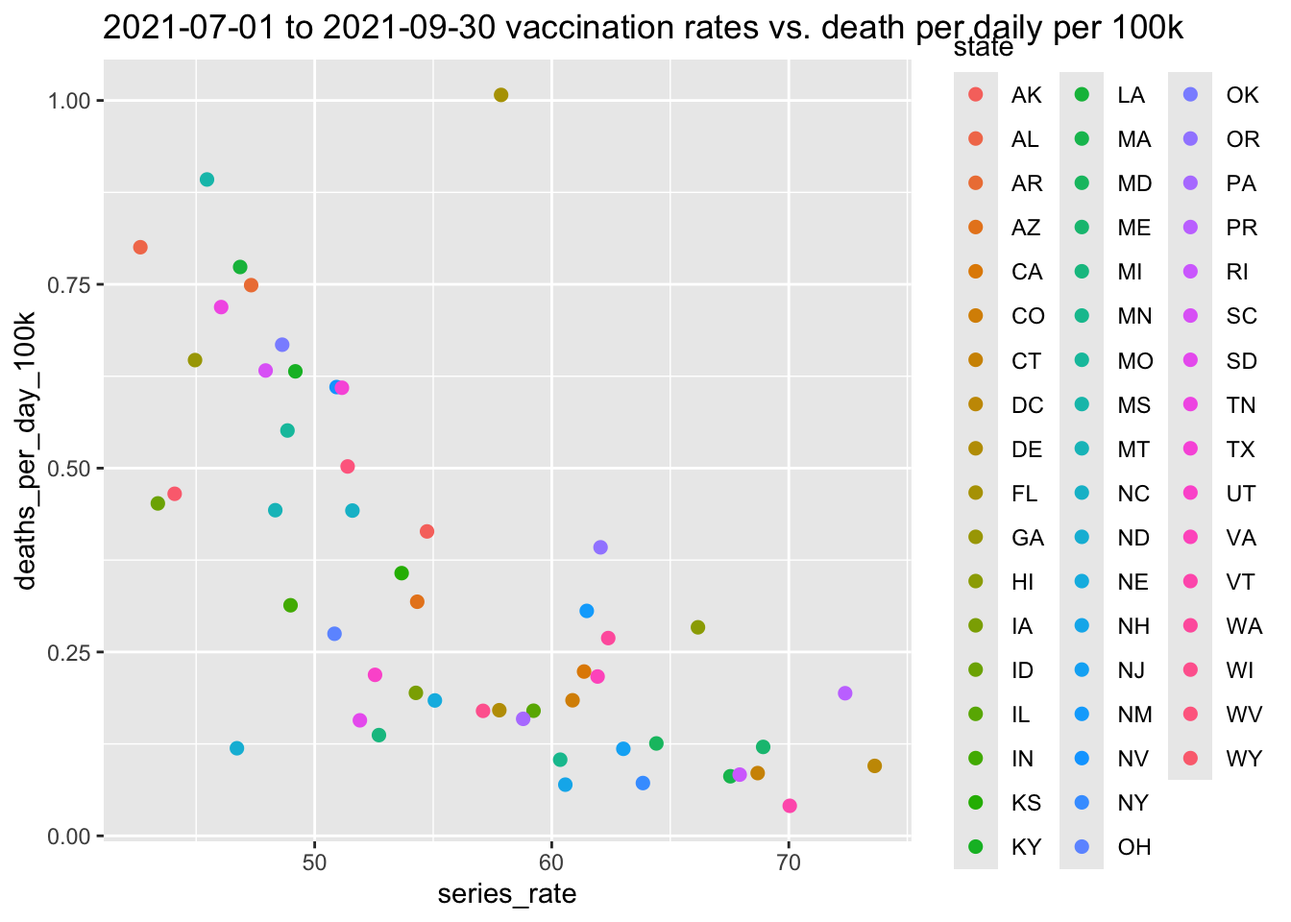
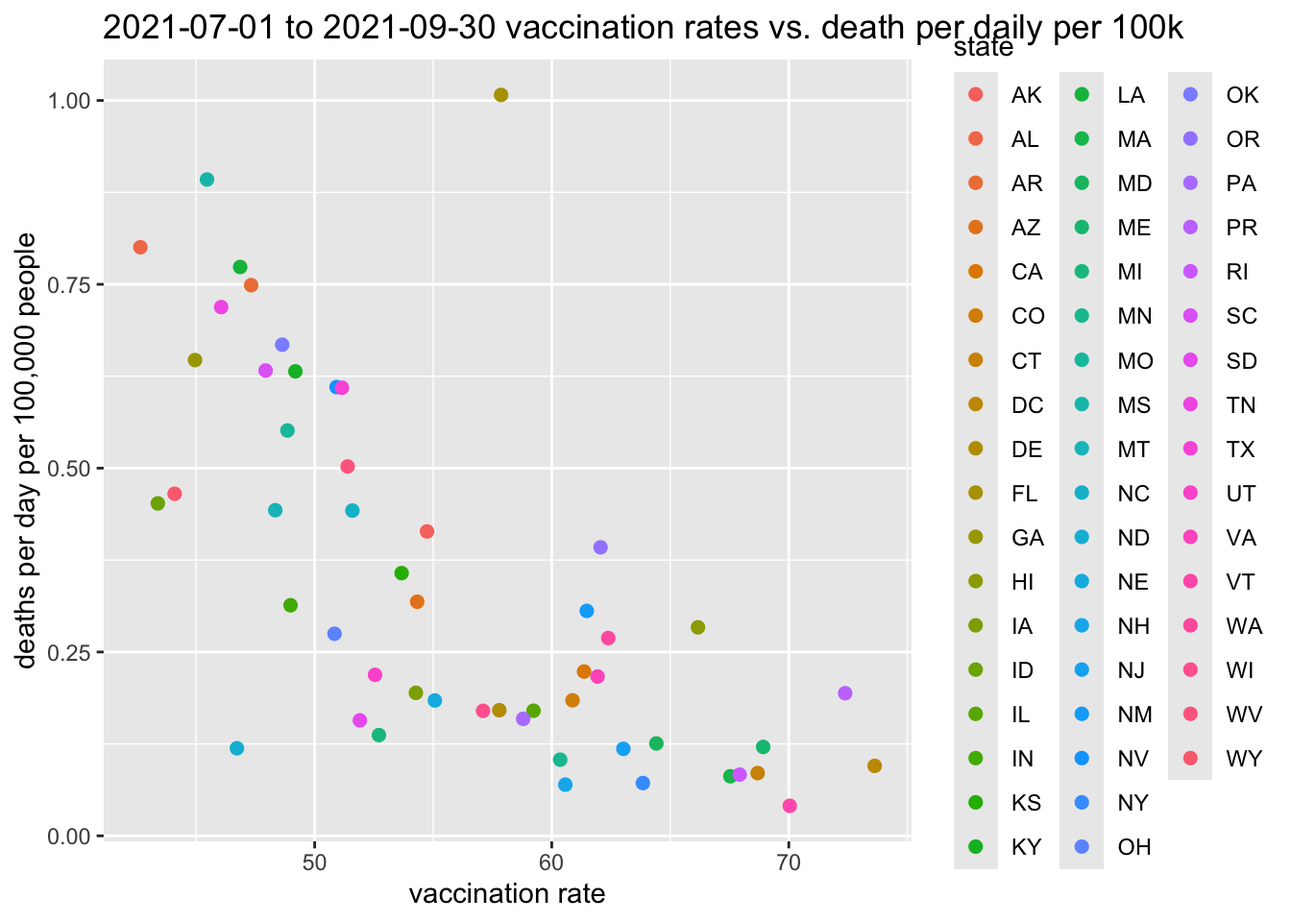
pset4

Changed region(s): [[0.0, 0.25, 0.0312, 0.7188], [0.3125, 0.9375, 0.4688, 1.0]]

diff --git a/p4/pset-04-dataviz.html b/p4/pset-04-dataviz.html
@@ -587,33 +587,13 @@ The following object is masked from 'package:purrr':
 <li>(1 point) Repeat what you did in the previous two exercises for provisional COVID-19 deaths. Display the result and comment appropriately.</li>
 </ol>
 <div class="cell">
-<div class="sourceCode cell-code" id="cb23"><pre class="sourceCode r code-with-copy"><code class="sourceCode r"><span id="cb23-1"><a href="#cb23-1" aria-hidden="true" tabindex="-1"></a><span class="co"># deaths_raw = deaths_raw |&gt; </span></span>
-<span id="cb23-2"><a href="#cb23-2" aria-hidden="true" tabindex="-1"></a><span class="co">#   # filter(state != "United States") |&gt;</span></span>
-<span id="cb23-3"><a href="#cb23-3" aria-hidden="true" tabindex="-1"></a><span class="co">#   select(state, start_date, week = mmwr_week, death = covid_19_deaths) |&gt;  # Keep relevant columns</span></span>
-<span id="cb23-4"><a href="#cb23-4" aria-hidden="true" tabindex="-1"></a><span class="co">#   mutate(</span></span>
-<span id="cb23-5"><a href="#cb23-5" aria-hidden="true" tabindex="-1"></a><span class="co">#     week = epiweek(start_date),   # Standardize to MMWR week</span></span>
-<span id="cb23-6"><a href="#cb23-6" aria-hidden="true" tabindex="-1"></a><span class="co">#     year = epiyear(start_date),   # Standardize to MMWR year</span></span>
-<span id="cb23-7"><a href="#cb23-7" aria-hidden="true" tabindex="-1"></a><span class="co">#     death = as.integer(death)     # Convert deaths to integer</span></span>
-<span id="cb23-8"><a href="#cb23-8" aria-hidden="true" tabindex="-1"></a><span class="co">#     # state = case_when(            </span></span>
-<span id="cb23-9"><a href="#cb23-9" aria-hidden="true" tabindex="-1"></a><span class="co">#     #   state == "District of Columbia" ~ "DC",</span></span>
-<span id="cb23-10"><a href="#cb23-10" aria-hidden="true" tabindex="-1"></a><span class="co">#     #   state == "Puerto Rico" ~ "PR",</span></span>
-<span id="cb23-11"><a href="#cb23-11" aria-hidden="true" tabindex="-1"></a><span class="co">#     #   TRUE ~ state.abb[match(state, state.name)]</span></span>
-<span id="cb23-12"><a href="#cb23-12" aria-hidden="true" tabindex="-1"></a><span class="co">#     # )</span></span>
-<span id="cb23-13"><a href="#cb23-13" aria-hidden="true" tabindex="-1"></a><span class="co">#   ) |&gt; </span></span>
-<span id="cb23-14"><a href="#cb23-14" aria-hidden="true" tabindex="-1"></a><span class="co">#   select(-start_date) |&gt;  # Remove original date column</span></span>
-<span id="cb23-15"><a href="#cb23-15" aria-hidden="true" tabindex="-1"></a><span class="co">#   group_by(state, week, year) |&gt;  # Prepare for aggregation </span></span>
-<span id="cb23-16"><a href="#cb23-16" aria-hidden="true" tabindex="-1"></a><span class="co">#   ungroup()</span></span>
-<span id="cb23-17"><a href="#cb23-17" aria-hidden="true" tabindex="-1"></a><span class="co"># </span></span>
-<span id="cb23-18"><a href="#cb23-18" aria-hidden="true" tabindex="-1"></a><span class="co"># head(deaths_raw)  # Display first few rows</span></span>
-<span id="cb23-19"><a href="#cb23-19" aria-hidden="true" tabindex="-1"></a></span>
-<span id="cb23-20"><a href="#cb23-20" aria-hidden="true" tabindex="-1"></a></span>
-<span id="cb23-21"><a href="#cb23-21" aria-hidden="true" tabindex="-1"></a>deaths_raw <span class="ot">=</span> deaths_raw<span class="sc">|&gt;</span></span>
-<span id="cb23-22"><a href="#cb23-22" aria-hidden="true" tabindex="-1"></a>  <span class="fu">filter</span>(state <span class="sc">%in%</span> population<span class="sc">$</span>state_name)<span class="sc">|&gt;</span></span>
-<span id="cb23-23"><a href="#cb23-23" aria-hidden="true" tabindex="-1"></a>  <span class="fu">mutate</span>(<span class="at">death =</span> <span class="fu">parse_number</span>(covid_19_deaths))<span class="sc">|&gt;</span></span>
-<span id="cb23-24"><a href="#cb23-24" aria-hidden="true" tabindex="-1"></a>  <span class="fu">mutate</span>(<span class="at">date =</span> <span class="fu">as_date</span>(<span class="fu">ymd_hms</span>(end_date)))<span class="sc">|&gt;</span></span>
-<span id="cb23-25"><a href="#cb23-25" aria-hidden="true" tabindex="-1"></a>  <span class="fu">mutate</span>(<span class="at">mmwr_year =</span> <span class="fu">epiyear</span>(date),<span class="at">mmwr_week =</span> <span class="fu">as.numeric</span>(mmwr_week))<span class="sc">|&gt;</span></span>
-<span id="cb23-26"><a href="#cb23-26" aria-hidden="true" tabindex="-1"></a>  <span class="fu">select</span>(state, mmwr_week, mmwr_year, death)<span class="sc">|&gt;</span></span>
-<span id="cb23-27"><a href="#cb23-27" aria-hidden="true" tabindex="-1"></a>  <span class="fu">arrange</span>(state, mmwr_year, mmwr_week)</span></code><button title="Copy to Clipboard" class="code-copy-button"><i class="bi"></i></button></pre></div>
+<div class="sourceCode cell-code" id="cb23"><pre class="sourceCode r code-with-copy"><code class="sourceCode r"><span id="cb23-1"><a href="#cb23-1" aria-hidden="true" tabindex="-1"></a>deaths_raw <span class="ot">=</span> deaths_raw<span class="sc">|&gt;</span></span>
+<span id="cb23-2"><a href="#cb23-2" aria-hidden="true" tabindex="-1"></a>  <span class="fu">filter</span>(state <span class="sc">%in%</span> population<span class="sc">$</span>state_name)<span class="sc">|&gt;</span> <span class="co">#since the state is full name, and also have united state on it, we fix it</span></span>
+<span id="cb23-3"><a href="#cb23-3" aria-hidden="true" tabindex="-1"></a>  <span class="fu">mutate</span>(<span class="at">death =</span> <span class="fu">parse_number</span>(covid_19_deaths))<span class="sc">|&gt;</span> <span class="co">#change the name</span></span>
+<span id="cb23-4"><a href="#cb23-4" aria-hidden="true" tabindex="-1"></a>  <span class="fu">mutate</span>(<span class="at">date =</span> <span class="fu">as_date</span>(<span class="fu">ymd_hms</span>(end_date)))<span class="sc">|&gt;</span> <span class="co">#convert date</span></span>
+<span id="cb23-5"><a href="#cb23-5" aria-hidden="true" tabindex="-1"></a>  <span class="fu">mutate</span>(<span class="at">mmwr_year =</span> <span class="fu">epiyear</span>(date),<span class="at">mmwr_week =</span> <span class="fu">as.numeric</span>(mmwr_week))<span class="sc">|&gt;</span> <span class="co">#convert date and convert mmwr_week to numeric</span></span>
+<span id="cb23-6"><a href="#cb23-6" aria-hidden="true" tabindex="-1"></a>  <span class="fu">select</span>(state, mmwr_week, mmwr_year, death)<span class="sc">|&gt;</span> <span class="co">#select needed variables </span></span>
+<span id="cb23-7"><a href="#cb23-7" aria-hidden="true" tabindex="-1"></a>  <span class="fu">arrange</span>(state, mmwr_year, mmwr_week)</span></code><button title="Copy to Clipboard" class="code-copy-button"><i class="bi"></i></button></pre></div>
 </div>
 <ol start="8" type="1">
 <li>(1 point) Repeat this now for vaccination data. Keep the variables <code>series_complete</code> and <code>booster</code> along with state and date. Display the result and comment appropriately. Hint: only use the rows with <code>date_type == 'Admin'</code> to only include vaccine data based on the day it was administered, rather than reported.</li>
@@ -674,36 +654,12 @@ The following object is masked from 'package:purrr':
 <span id="cb28-8"><a href="#cb28-8" aria-hidden="true" tabindex="-1"></a></span>
 <span id="cb28-9"><a href="#cb28-9" aria-hidden="true" tabindex="-1"></a>dates_and_pop <span class="ot">&lt;-</span> <span class="fu">cross_join</span>(all_dates, <span class="fu">data.frame</span>(<span class="at">state =</span> <span class="fu">unique</span>(population<span class="sc">$</span>state))) <span class="sc">|&gt;</span> <span class="fu">left_join</span>(population, <span class="at">by =</span> <span class="fu">c</span>(<span class="st">"state"</span>, <span class="st">"mmwr_year"</span> <span class="ot">=</span> <span class="st">"year"</span>))</span>
 <span id="cb28-10"><a href="#cb28-10" aria-hidden="true" tabindex="-1"></a></span>
-<span id="cb28-11"><a href="#cb28-11" aria-hidden="true" tabindex="-1"></a><span class="co"># deaths_raw &lt;- deaths_raw |&gt; filter(!is.na(state))# need remove united state those row to match with other states</span></span>
-<span id="cb28-12"><a href="#cb28-12" aria-hidden="true" tabindex="-1"></a></span>
-<span id="cb28-13"><a href="#cb28-13" aria-hidden="true" tabindex="-1"></a><span class="co"># dat &lt;- dates_and_pop %&gt;%</span></span>
-<span id="cb28-14"><a href="#cb28-14" aria-hidden="true" tabindex="-1"></a><span class="co">#   left_join(cases_raw, by = c("state", "mmwr_year","mmwr_week")) |&gt;</span></span>
-<span id="cb28-15"><a href="#cb28-15" aria-hidden="true" tabindex="-1"></a><span class="co">#   left_join(deaths_raw, by = c("state_name","mmwr_year","mmwr_week")) |&gt;</span></span>
-<span id="cb28-16"><a href="#cb28-16" aria-hidden="true" tabindex="-1"></a><span class="co">#   left_join(hosp_raw, by = c("state","mmwr_year","mmwr_week")) |&gt;</span></span>
-<span id="cb28-17"><a href="#cb28-17" aria-hidden="true" tabindex="-1"></a><span class="co">#   left_join(vax_raw, by = c("state","mmwr_year","mmwr_week"))|&gt;</span></span>
-<span id="cb28-18"><a href="#cb28-18" aria-hidden="true" tabindex="-1"></a><span class="co">#   arrange(state, date)</span></span>
-<span id="cb28-19"><a href="#cb28-19" aria-hidden="true" tabindex="-1"></a></span>
-<span id="cb28-20"><a href="#cb28-20" aria-hidden="true" tabindex="-1"></a></span>
-<span id="cb28-21"><a href="#cb28-21" aria-hidden="true" tabindex="-1"></a><span class="co"># </span></span>
-<span id="cb28-22"><a href="#cb28-22" aria-hidden="true" tabindex="-1"></a><span class="co"># deaths_cleaned &lt;- deaths_raw |&gt; #we find that death have duplicated data</span></span>
-<span id="cb28-23"><a href="#cb28-23" aria-hidden="true" tabindex="-1"></a><span class="co">#   group_by(state, year, week) |&gt; </span></span>
-<span id="cb28-24"><a href="#cb28-24" aria-hidden="true" tabindex="-1"></a><span class="co">#   summarise(death = sum(death))</span></span>
-<span id="cb28-25"><a href="#cb28-25" aria-hidden="true" tabindex="-1"></a><span class="co"># </span></span>
-<span id="cb28-26"><a href="#cb28-26" aria-hidden="true" tabindex="-1"></a><span class="co"># </span></span>
-<span id="cb28-27"><a href="#cb28-27" aria-hidden="true" tabindex="-1"></a><span class="co"># dat &lt;- dates_and_pop|&gt;</span></span>
-<span id="cb28-28"><a href="#cb28-28" aria-hidden="true" tabindex="-1"></a><span class="co">#   left_join(cases_raw, by = c("state", "mmwr_year" = "year","mmwr_week" = "week")) |&gt;</span></span>
-<span id="cb28-29"><a href="#cb28-29" aria-hidden="true" tabindex="-1"></a><span class="co">#   left_join(hosp_raw, by = c("state","mmwr_year" = "year","mmwr_week" = "week")) |&gt;</span></span>
-<span id="cb28-30"><a href="#cb28-30" aria-hidden="true" tabindex="-1"></a><span class="co">#   left_join(deaths_cleaned, by = c("state_name" = "state","mmwr_year" = "year","mmwr_week" = "week")) |&gt;</span></span>
-<span id="cb28-31"><a href="#cb28-31" aria-hidden="true" tabindex="-1"></a><span class="co">#   left_join(vax_raw, by = c("state","mmwr_year" = "year","mmwr_week" = "week"))|&gt;</span></span>
-<span id="cb28-32"><a href="#cb28-32" aria-hidden="true" tabindex="-1"></a><span class="co">#   arrange(state, date)</span></span>
-<span id="cb28-33"><a href="#cb28-33" aria-hidden="true" tabindex="-1"></a></span>
-<span id="cb28-34"><a href="#cb28-34" aria-hidden="true" tabindex="-1"></a></span>
-<span id="cb28-35"><a href="#cb28-35" aria-hidden="true" tabindex="-1"></a>dat <span class="ot">=</span> dates_and_pop<span class="sc">|&gt;</span></span>
-<span id="cb28-36"><a href="#cb28-36" aria-hidden="true" tabindex="-1"></a>  <span class="fu">left_join</span>(cases_raw, <span class="at">by =</span> <span class="fu">c</span>(<span class="st">"state"</span>, <span class="st">"mmwr_week"</span> <span class="ot">=</span> <span class="st">"week"</span>,<span class="st">"mmwr_year"</span> <span class="ot">=</span> <span class="st">"year"</span>))<span class="sc">|&gt;</span></span>
-<span id="cb28-37"><a href="#cb28-37" aria-hidden="true" tabindex="-1"></a>  <span class="fu">left_join</span>(hosp_raw, <span class="at">by =</span> <span class="fu">c</span>(<span class="st">"state"</span>, <span class="st">"mmwr_year"</span> <span class="ot">=</span> <span class="st">"year"</span>,<span class="st">"mmwr_week"</span> <span class="ot">=</span> <span class="st">"week"</span>))<span class="sc">|&gt;</span></span>
-<span id="cb28-38"><a href="#cb28-38" aria-hidden="true" tabindex="-1"></a>  <span class="fu">left_join</span>(deaths_raw, <span class="at">by =</span> <span class="fu">c</span>(<span class="st">"state_name"</span> <span class="ot">=</span> <span class="st">"state"</span>, <span class="st">"mmwr_year"</span>,<span class="st">"mmwr_week"</span>))<span class="sc">|&gt;</span></span>
-<span id="cb28-39"><a href="#cb28-39" aria-hidden="true" tabindex="-1"></a>  <span class="fu">left_join</span>(vax_raw, <span class="at">by =</span> <span class="fu">c</span>(<span class="st">"state"</span>, <span class="st">"mmwr_year"</span> <span class="ot">=</span> <span class="st">"year"</span>,<span class="st">"mmwr_week"</span> <span class="ot">=</span> <span class="st">"week"</span>))<span class="sc">|&gt;</span></span>
-<span id="cb28-40"><a href="#cb28-40" aria-hidden="true" tabindex="-1"></a>  <span class="fu">arrange</span>(date, state)</span></code><button title="Copy to Clipboard" class="code-copy-button"><i class="bi"></i></button></pre></div>
+<span id="cb28-11"><a href="#cb28-11" aria-hidden="true" tabindex="-1"></a>dat <span class="ot">=</span> dates_and_pop<span class="sc">|&gt;</span></span>
+<span id="cb28-12"><a href="#cb28-12" aria-hidden="true" tabindex="-1"></a>  <span class="fu">left_join</span>(cases_raw, <span class="at">by =</span> <span class="fu">c</span>(<span class="st">"state"</span>, <span class="st">"mmwr_week"</span> <span class="ot">=</span> <span class="st">"week"</span>,<span class="st">"mmwr_year"</span> <span class="ot">=</span> <span class="st">"year"</span>))<span class="sc">|&gt;</span></span>
+<span id="cb28-13"><a href="#cb28-13" aria-hidden="true" tabindex="-1"></a>  <span class="fu">left_join</span>(hosp_raw, <span class="at">by =</span> <span class="fu">c</span>(<span class="st">"state"</span>, <span class="st">"mmwr_year"</span> <span class="ot">=</span> <span class="st">"year"</span>,<span class="st">"mmwr_week"</span> <span class="ot">=</span> <span class="st">"week"</span>))<span class="sc">|&gt;</span></span>
+<span id="cb28-14"><a href="#cb28-14" aria-hidden="true" tabindex="-1"></a>  <span class="fu">left_join</span>(deaths_raw, <span class="at">by =</span> <span class="fu">c</span>(<span class="st">"state_name"</span> <span class="ot">=</span> <span class="st">"state"</span>, <span class="st">"mmwr_year"</span>,<span class="st">"mmwr_week"</span>))<span class="sc">|&gt;</span></span>
+<span id="cb28-15"><a href="#cb28-15" aria-hidden="true" tabindex="-1"></a>  <span class="fu">left_join</span>(vax_raw, <span class="at">by =</span> <span class="fu">c</span>(<span class="st">"state"</span>, <span class="st">"mmwr_year"</span> <span class="ot">=</span> <span class="st">"year"</span>,<span class="st">"mmwr_week"</span> <span class="ot">=</span> <span class="st">"week"</span>))<span class="sc">|&gt;</span></span>
+<span id="cb28-16"><a href="#cb28-16" aria-hidden="true" tabindex="-1"></a>  <span class="fu">arrange</span>(date, state)</span></code><button title="Copy to Clipboard" class="code-copy-button"><i class="bi"></i></button></pre></div>
 </div>
 <p>Now join all the tables to create your final table. Make sure it is ordered by date within each state. Call it <code>dat</code>. Show a few rows here.</p>
 </section>
@@ -715,57 +671,25 @@ The following object is masked from 'package:purrr':
 <li>(1 point) Plot a trend plot for cases, hospitalizations and deaths for each state. Color by region. Plot rates per <span class="math inline">\(100,000\)</span> people. Place the plots on top of each other. Hint: Use <code>pivot_longer</code> and <code>facet_wrap</code>.</li>
 </ol>
 <div class="cell">
-<div class="sourceCode cell-code" id="cb29"><pre class="sourceCode r code-with-copy"><code class="sourceCode r"><span id="cb29-1"><a href="#cb29-1" aria-hidden="true" tabindex="-1"></a><span class="co"># dat_long &lt;- dat %&gt;%</span></span>
-<span id="cb29-2"><a href="#cb29-2" aria-hidden="true" tabindex="-1"></a><span class="co">#   mutate(</span></span>
-<span id="cb29-3"><a href="#cb29-3" aria-hidden="true" tabindex="-1"></a><span class="co">#     cases_per_100k = (as.integer(cases) / population) * 100000,</span></span>
-<span id="cb29-4"><a href="#cb29-4" aria-hidden="true" tabindex="-1"></a><span class="co">#     hosp_per_100k = (as.integer(hosp) / population) * 100000,</span></span>
-<span id="cb29-5"><a href="#cb29-5" aria-hidden="true" tabindex="-1"></a><span class="co">#     deaths_per_100k = (as.integer(death) / population) * 100000</span></span>
-<span id="cb29-6"><a href="#cb29-6" aria-hidden="true" tabindex="-1"></a><span class="co">#   ) |&gt;</span></span>
-<span id="cb29-7"><a href="#cb29-7" aria-hidden="true" tabindex="-1"></a><span class="co">#   select(date,</span></span>
-<span id="cb29-8"><a href="#cb29-8" aria-hidden="true" tabindex="-1"></a><span class="co">#          state,</span></span>
-<span id="cb29-9"><a href="#cb29-9" aria-hidden="true" tabindex="-1"></a><span class="co">#          region_name,</span></span>
-<span id="cb29-10"><a href="#cb29-10" aria-hidden="true" tabindex="-1"></a><span class="co">#          cases_per_100k,</span></span>
-<span id="cb29-11"><a href="#cb29-11" aria-hidden="true" tabindex="-1"></a><span class="co">#          hosp_per_100k,</span></span>
-<span id="cb29-12"><a href="#cb29-12" aria-hidden="true" tabindex="-1"></a><span class="co">#          deaths_per_100k) |&gt;</span></span>
-<span id="cb29-13"><a href="#cb29-13" aria-hidden="true" tabindex="-1"></a><span class="co">#   pivot_longer(</span></span>
-<span id="cb29-14"><a href="#cb29-14" aria-hidden="true" tabindex="-1"></a><span class="co">#     cols = c(cases_per_100k, hosp_per_100k, deaths_per_100k),</span></span>
-<span id="cb29-15"><a href="#cb29-15" aria-hidden="true" tabindex="-1"></a><span class="co">#     names_to = "metric",</span></span>
-<span id="cb29-16"><a href="#cb29-16" aria-hidden="true" tabindex="-1"></a><span class="co">#     values_to = "rate"</span></span>
-<span id="cb29-17"><a href="#cb29-17" aria-hidden="true" tabindex="-1"></a><span class="co">#   )</span></span>
-<span id="cb29-18"><a href="#cb29-18" aria-hidden="true" tabindex="-1"></a><span class="co"># </span></span>
-<span id="cb29-19"><a href="#cb29-19" aria-hidden="true" tabindex="-1"></a><span class="co"># ggplot(dat_long, aes(</span></span>
-<span id="cb29-20"><a href="#cb29-20" aria-hidden="true" tabindex="-1"></a><span class="co">#   x = date,</span></span>
-<span id="cb29-21"><a href="#cb29-21" aria-hidden="true" tabindex="-1"></a><span class="co">#   y = rate,</span></span>
-<span id="cb29-22"><a href="#cb29-22" aria-hidden="true" tabindex="-1"></a><span class="co">#   color = region_name,</span></span>
-<span id="cb29-23"><a href="#cb29-23" aria-hidden="true" tabindex="-1"></a><span class="co">#   group = state</span></span>
-<span id="cb29-24"><a href="#cb29-24" aria-hidden="true" tabindex="-1"></a><span class="co"># )) +</span></span>
-<span id="cb29-25"><a href="#cb29-25" aria-hidden="true" tabindex="-1"></a><span class="co">#   geom_line(alpha = 0.5) +</span></span>
-<span id="cb29-26"><a href="#cb29-26" aria-hidden="true" tabindex="-1"></a><span class="co">#   facet_wrap( ~ metric, scale = "free_y", ncol = 1) +</span></span>
-<span id="cb29-27"><a href="#cb29-27" aria-hidden="true" tabindex="-1"></a><span class="co">#   labs(title = "COVID-19 Cases, Hospitalizations, and Deaths per 100,000 People", x = "Date", y = "Rate per 100,000") +</span></span>
-<span id="cb29-28"><a href="#cb29-28" aria-hidden="true" tabindex="-1"></a><span class="co">#   theme_minimal() +</span></span>
-<span id="cb29-29"><a href="#cb29-29" aria-hidden="true" tabindex="-1"></a><span class="co">#   theme(legend.position = "bottom",</span></span>
-<span id="cb29-30"><a href="#cb29-30" aria-hidden="true" tabindex="-1"></a><span class="co">#         axis.text.x = element_text(angle = 45, hjust = 1))</span></span>
-<span id="cb29-31"><a href="#cb29-31" aria-hidden="true" tabindex="-1"></a></span>
-<span id="cb29-32"><a href="#cb29-32" aria-hidden="true" tabindex="-1"></a></span>
-<span id="cb29-33"><a href="#cb29-33" aria-hidden="true" tabindex="-1"></a>dat1 <span class="ot">=</span> dat <span class="sc">|&gt;</span></span>
-<span id="cb29-34"><a href="#cb29-34" aria-hidden="true" tabindex="-1"></a>  <span class="fu">mutate</span>(</span>
-<span id="cb29-35"><a href="#cb29-35" aria-hidden="true" tabindex="-1"></a>    <span class="at">cases_rate =</span> (cases <span class="sc">/</span> population) <span class="sc">*</span> <span class="dv">100000</span>,</span>
-<span id="cb29-36"><a href="#cb29-36" aria-hidden="true" tabindex="-1"></a>    <span class="at">hosp_rate =</span> (hosp <span class="sc">/</span> population) <span class="sc">*</span> <span class="dv">100000</span>,</span>
-<span id="cb29-37"><a href="#cb29-37" aria-hidden="true" tabindex="-1"></a>    <span class="at">deaths_rate =</span> (death <span class="sc">/</span> population) <span class="sc">*</span> <span class="dv">100000</span></span>
-<span id="cb29-38"><a href="#cb29-38" aria-hidden="true" tabindex="-1"></a>  ) <span class="sc">|&gt;</span></span>
-<span id="cb29-39"><a href="#cb29-39" aria-hidden="true" tabindex="-1"></a>  <span class="fu">pivot_longer</span>(</span>
-<span id="cb29-40"><a href="#cb29-40" aria-hidden="true" tabindex="-1"></a>    <span class="at">cols =</span> <span class="fu">c</span>(cases_rate, hosp_rate, deaths_rate),</span>
-<span id="cb29-41"><a href="#cb29-41" aria-hidden="true" tabindex="-1"></a>    <span class="at">names_to =</span> <span class="st">"name"</span>,</span>
-<span id="cb29-42"><a href="#cb29-42" aria-hidden="true" tabindex="-1"></a>    <span class="at">values_to =</span> <span class="st">"rate"</span></span>
-<span id="cb29-43"><a href="#cb29-43" aria-hidden="true" tabindex="-1"></a>  )</span>
-<span id="cb29-44"><a href="#cb29-44" aria-hidden="true" tabindex="-1"></a></span>
-<span id="cb29-45"><a href="#cb29-45" aria-hidden="true" tabindex="-1"></a><span class="fu">ggplot</span>(dat1,<span class="fu">aes</span>(</span>
-<span id="cb29-46"><a href="#cb29-46" aria-hidden="true" tabindex="-1"></a>  <span class="at">x =</span> date,</span>
-<span id="cb29-47"><a href="#cb29-47" aria-hidden="true" tabindex="-1"></a>  <span class="at">y =</span> rate,</span>
-<span id="cb29-48"><a href="#cb29-48" aria-hidden="true" tabindex="-1"></a>  <span class="at">group =</span> state,</span>
-<span id="cb29-49"><a href="#cb29-49" aria-hidden="true" tabindex="-1"></a>  <span class="at">color =</span> <span class="fu">factor</span>(region)</span>
-<span id="cb29-50"><a href="#cb29-50" aria-hidden="true" tabindex="-1"></a>)) <span class="sc">+</span></span>
-<span id="cb29-51"><a href="#cb29-51" aria-hidden="true" tabindex="-1"></a>  <span class="fu">geom_line</span>(<span class="at">show.legend =</span> <span class="cn">TRUE</span>) <span class="sc">+</span> <span class="fu">facet_wrap</span>( <span class="sc">~</span> name, <span class="at">scales =</span> <span class="st">"free_y"</span>, <span class="at">ncol =</span> <span class="dv">1</span>)</span></code><button title="Copy to Clipboard" class="code-copy-button"><i class="bi"></i></button></pre></div>
+<div class="sourceCode cell-code" id="cb29"><pre class="sourceCode r code-with-copy"><code class="sourceCode r"><span id="cb29-1"><a href="#cb29-1" aria-hidden="true" tabindex="-1"></a>dat1 <span class="ot">=</span> dat <span class="sc">|&gt;</span></span>
+<span id="cb29-2"><a href="#cb29-2" aria-hidden="true" tabindex="-1"></a>  <span class="fu">mutate</span>(</span>
+<span id="cb29-3"><a href="#cb29-3" aria-hidden="true" tabindex="-1"></a>    <span class="at">cases_rate =</span> (cases <span class="sc">/</span> population) <span class="sc">*</span> <span class="dv">100000</span>,</span>
+<span id="cb29-4"><a href="#cb29-4" aria-hidden="true" tabindex="-1"></a>    <span class="at">hosp_rate =</span> (hosp <span class="sc">/</span> population) <span class="sc">*</span> <span class="dv">100000</span>,</span>
+<span id="cb29-5"><a href="#cb29-5" aria-hidden="true" tabindex="-1"></a>    <span class="at">deaths_rate =</span> (death <span class="sc">/</span> population) <span class="sc">*</span> <span class="dv">100000</span></span>
+<span id="cb29-6"><a href="#cb29-6" aria-hidden="true" tabindex="-1"></a>  ) <span class="sc">|&gt;</span></span>
+<span id="cb29-7"><a href="#cb29-7" aria-hidden="true" tabindex="-1"></a>  <span class="fu">pivot_longer</span>(</span>
+<span id="cb29-8"><a href="#cb29-8" aria-hidden="true" tabindex="-1"></a>    <span class="at">cols =</span> <span class="fu">c</span>(cases_rate, hosp_rate, deaths_rate),</span>
+<span id="cb29-9"><a href="#cb29-9" aria-hidden="true" tabindex="-1"></a>    <span class="at">names_to =</span> <span class="st">"name"</span>,</span>
+<span id="cb29-10"><a href="#cb29-10" aria-hidden="true" tabindex="-1"></a>    <span class="at">values_to =</span> <span class="st">"rate"</span></span>
+<span id="cb29-11"><a href="#cb29-11" aria-hidden="true" tabindex="-1"></a>  )</span>
+<span id="cb29-12"><a href="#cb29-12" aria-hidden="true" tabindex="-1"></a></span>
+<span id="cb29-13"><a href="#cb29-13" aria-hidden="true" tabindex="-1"></a><span class="fu">ggplot</span>(dat1,<span class="fu">aes</span>(</span>
+<span id="cb29-14"><a href="#cb29-14" aria-hidden="true" tabindex="-1"></a>  <span class="at">x =</span> date,</span>
+<span id="cb29-15"><a href="#cb29-15" aria-hidden="true" tabindex="-1"></a>  <span class="at">y =</span> rate,</span>
+<span id="cb29-16"><a href="#cb29-16" aria-hidden="true" tabindex="-1"></a>  <span class="at">group =</span> state,</span>
+<span id="cb29-17"><a href="#cb29-17" aria-hidden="true" tabindex="-1"></a>  <span class="at">color =</span> <span class="fu">factor</span>(region)</span>
+<span id="cb29-18"><a href="#cb29-18" aria-hidden="true" tabindex="-1"></a>)) <span class="sc">+</span></span>
+<span id="cb29-19"><a href="#cb29-19" aria-hidden="true" tabindex="-1"></a>  <span class="fu">geom_line</span>(<span class="at">show.legend =</span> <span class="cn">TRUE</span>) <span class="sc">+</span> <span class="fu">facet_wrap</span>( <span class="sc">~</span> name, <span class="at">scales =</span> <span class="st">"free_y"</span>, <span class="at">ncol =</span> <span class="dv">1</span>)</span></code><button title="Copy to Clipboard" class="code-copy-button"><i class="bi"></i></button></pre></div>
 <div class="cell-output-display">
 <div>
 <figure class="figure">
@@ -829,7 +753,7 @@ The following object is masked from 'package:purrr':
 <span id="cb31-2"><a href="#cb31-2" aria-hidden="true" tabindex="-1"></a>  <span class="fu">filter</span>(mmwr_year <span class="sc">==</span> <span class="dv">2021</span>, mmwr_week <span class="sc">==</span> <span class="fu">epiweek</span>(<span class="fu">as.Date</span>(<span class="st">"2021-07-01"</span>))) <span class="sc">|&gt;</span></span>
 <span id="cb31-3"><a href="#cb31-3" aria-hidden="true" tabindex="-1"></a>  <span class="fu">mutate</span>(<span class="at">percent_vacc =</span> (series<span class="sc">/</span>population)<span class="sc">*</span><span class="dv">100</span>)</span>
 <span id="cb31-4"><a href="#cb31-4" aria-hidden="true" tabindex="-1"></a></span>
-<span id="cb31-5"><a href="#cb31-5" aria-hidden="true" tabindex="-1"></a><span class="fu">ggplot</span>(vax_july, <span class="fu">aes</span>(<span class="at">x =</span> state, percent_vacc, <span class="at">y =</span> percent_vacc, <span class="at">fill =</span> state)) <span class="sc">+</span></span>
+<span id="cb31-5"><a href="#cb31-5" aria-hidden="true" tabindex="-1"></a><span class="fu">ggplot</span>(vax_july, <span class="fu">aes</span>(<span class="at">x =</span> state,  <span class="at">y =</span> percent_vacc, <span class="at">fill =</span> state)) <span class="sc">+</span></span>
 <span id="cb31-6"><a href="#cb31-6" aria-hidden="true" tabindex="-1"></a>  <span class="fu">geom_bar</span>(<span class="at">stat =</span> <span class="st">"identity"</span>) <span class="sc">+</span></span>
 <span id="cb31-7"><a href="#cb31-7" aria-hidden="true" tabindex="-1"></a>  <span class="fu">labs</span>(<span class="at">title =</span> <span class="st">"distribution of vaccination rates across states on July 1, 2021"</span>, <span class="at">x =</span> <span class="st">"state"</span>, <span class="at">y =</span> <span class="st">"Percent Vaccinated"</span>) <span class="sc">+</span></span>
 <span id="cb31-8"><a href="#cb31-8" aria-hidden="true" tabindex="-1"></a>  <span class="fu">theme_minimal</span>()</span></code><button title="Copy to Clipboard" class="code-copy-button"><i class="bi"></i></button></pre></div>
@@ -903,7 +827,7 @@ The following object is masked from 'package:purrr':
 <span id="cb33-15"><a href="#cb33-15" aria-hidden="true" tabindex="-1"></a><span class="fu">ggplot</span>(series_period_time,</span>
 <span id="cb33-16"><a href="#cb33-16" aria-hidden="true" tabindex="-1"></a>       <span class="fu">aes</span>(<span class="at">x =</span> series_rate, <span class="at">y =</span> deaths_per_day_100k, <span class="at">color =</span> state)) <span class="sc">+</span></span>
 <span id="cb33-17"><a href="#cb33-17" aria-hidden="true" tabindex="-1"></a>  <span class="fu">geom_point</span>(<span class="at">size =</span> <span class="dv">2</span>) <span class="sc">+</span></span>
-<span id="cb33-18"><a href="#cb33-18" aria-hidden="true" tabindex="-1"></a>  <span class="fu">labs</span>(<span class="at">title =</span> <span class="st">"2021-07-01 to 2021-09-30 vaccination rates vs. death per daily per 100k"</span>, <span class="at">x =</span> <span class="st">"series_rate"</span>, <span class="at">y =</span> <span class="st">"deaths_per_day_100k"</span>)</span></code><button title="Copy to Clipboard" class="code-copy-button"><i class="bi"></i></button></pre></div>
+<span id="cb33-18"><a href="#cb33-18" aria-hidden="true" tabindex="-1"></a>  <span class="fu">labs</span>(<span class="at">title =</span> <span class="st">"2021-07-01 to 2021-09-30 vaccination rates vs. death per daily per 100k"</span>, <span class="at">x =</span> <span class="st">"vaccination rate"</span>, <span class="at">y =</span> <span class="st">"deaths per day per 100,000 people"</span>)</span></code><button title="Copy to Clipboard" class="code-copy-button"><i class="bi"></i></button></pre></div>
 <div class="cell-output-display">
 <div>
 <figure class="figure">
@@ -935,7 +859,7 @@ The following object is masked from 'package:purrr':
 <span id="cb34-17"><a href="#cb34-17" aria-hidden="true" tabindex="-1"></a><span class="fu">ggplot</span>(booster_period_time,</span>
 <span id="cb34-18"><a href="#cb34-18" aria-hidden="true" tabindex="-1"></a>       <span class="fu">aes</span>(<span class="at">x =</span> booster_rate, <span class="at">y =</span> deaths_per_day_100k, <span class="at">color =</span> state)) <span class="sc">+</span></span>
 <span id="cb34-19"><a href="#cb34-19" aria-hidden="true" tabindex="-1"></a>  <span class="fu">geom_point</span>(<span class="at">size =</span> <span class="dv">2</span>) <span class="sc">+</span></span>
-<span id="cb34-20"><a href="#cb34-20" aria-hidden="true" tabindex="-1"></a>  <span class="fu">labs</span>(<span class="at">title =</span> <span class="st">"2021-07-01 to 2021-09-30 booster vaccination rates vs. death per daily per 100k"</span>, <span class="at">x =</span> <span class="st">"booster_rate"</span>, <span class="at">y =</span> <span class="st">"deaths_per_day_100k"</span>)</span></code><button title="Copy to Clipboard" class="code-copy-button"><i class="bi"></i></button></pre></div>
+<span id="cb34-20"><a href="#cb34-20" aria-hidden="true" tabindex="-1"></a>  <span class="fu">labs</span>(<span class="at">title =</span> <span class="st">"2021-07-01 to 2021-09-30 booster vaccination rates vs. death per daily per 100k"</span>, <span class="at">x =</span> <span class="st">"booster rate"</span>, <span class="at">y =</span> <span class="st">"deaths per day per 100,000 people"</span>)</span></code><button title="Copy to Clipboard" class="code-copy-button"><i class="bi"></i></button></pre></div>
 <div class="cell-output-display">
 <div>
 <figure class="figure">
